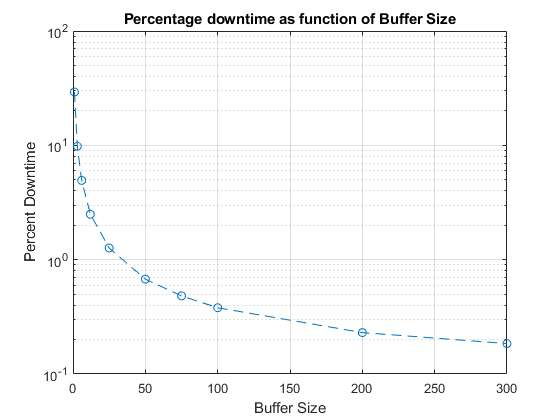
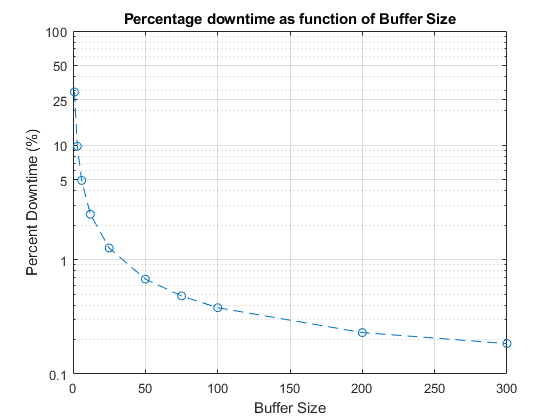
Attempt to ignore vscode folder

diff --git a/scripts/buffer_size_optimum/BufferWriteTimeOptimizer.m b/scripts/buffer_size_optimum/BufferWriteTimeOptimizer.m
@@ -69,6 +69,7 @@ legend("Data", strcat("Quadratic Fit: R^2 = ", num2str(Rsq)));
 figure;
 semilogy(buffers, total_write_time / experiment_time * 100, 'o--');
 xlabel("Buffer Size")
-ylabel("Percent Downtime")
+ylabel("Percent Downtime (%)")
+yticks([0.1 1 5 10 25 50 100])
 grid on
 title("Percentage downtime as function of Buffer Size")
